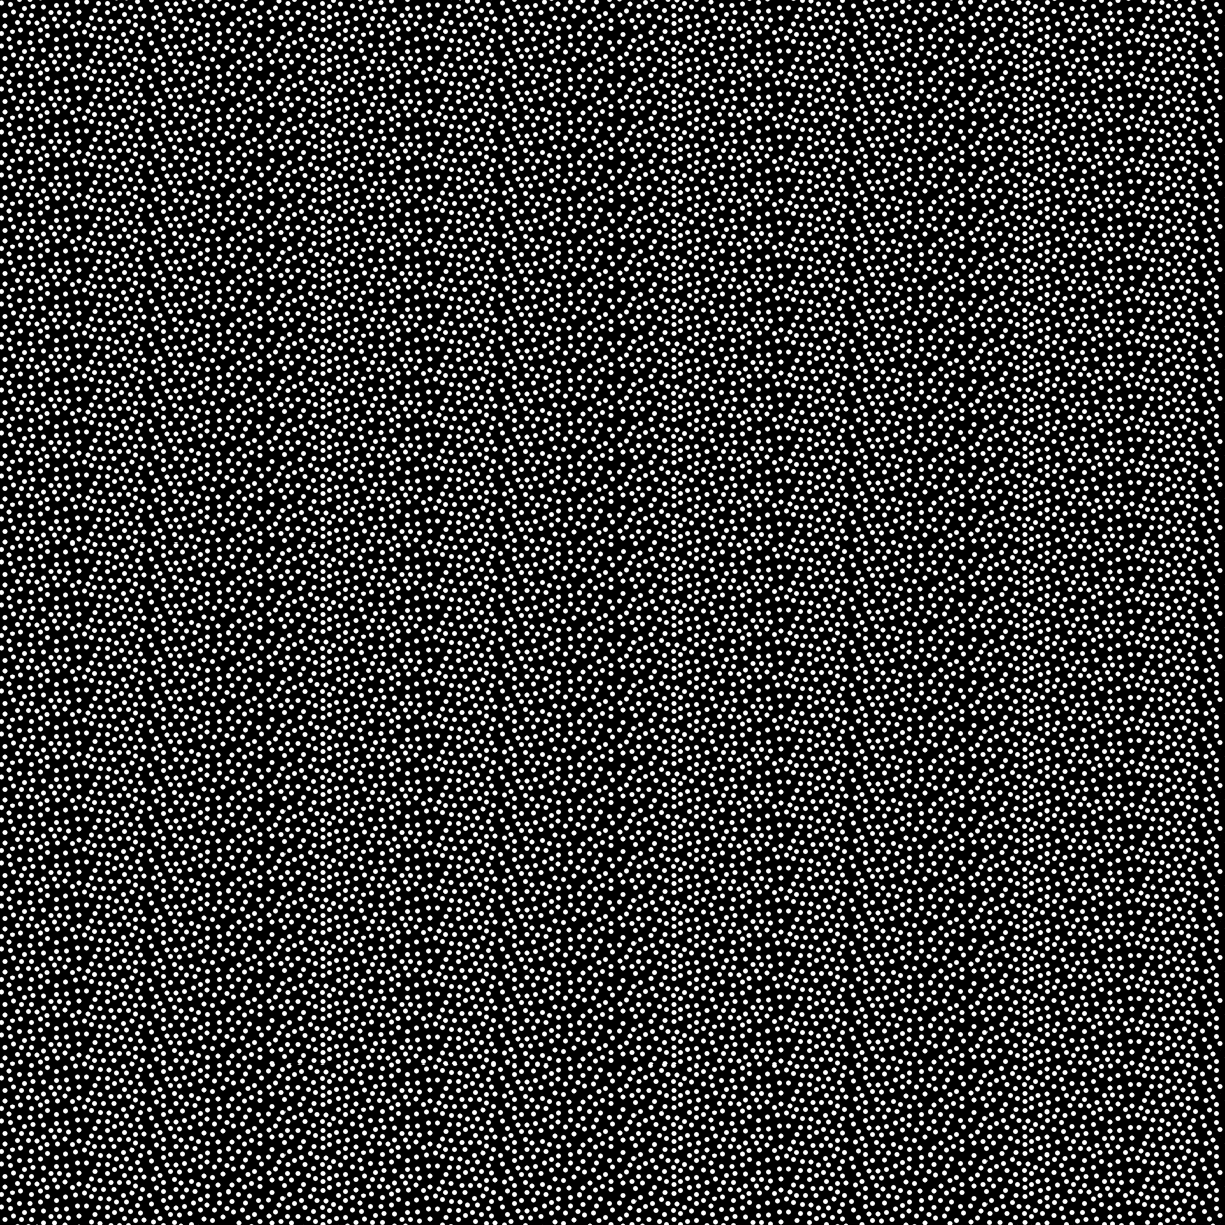
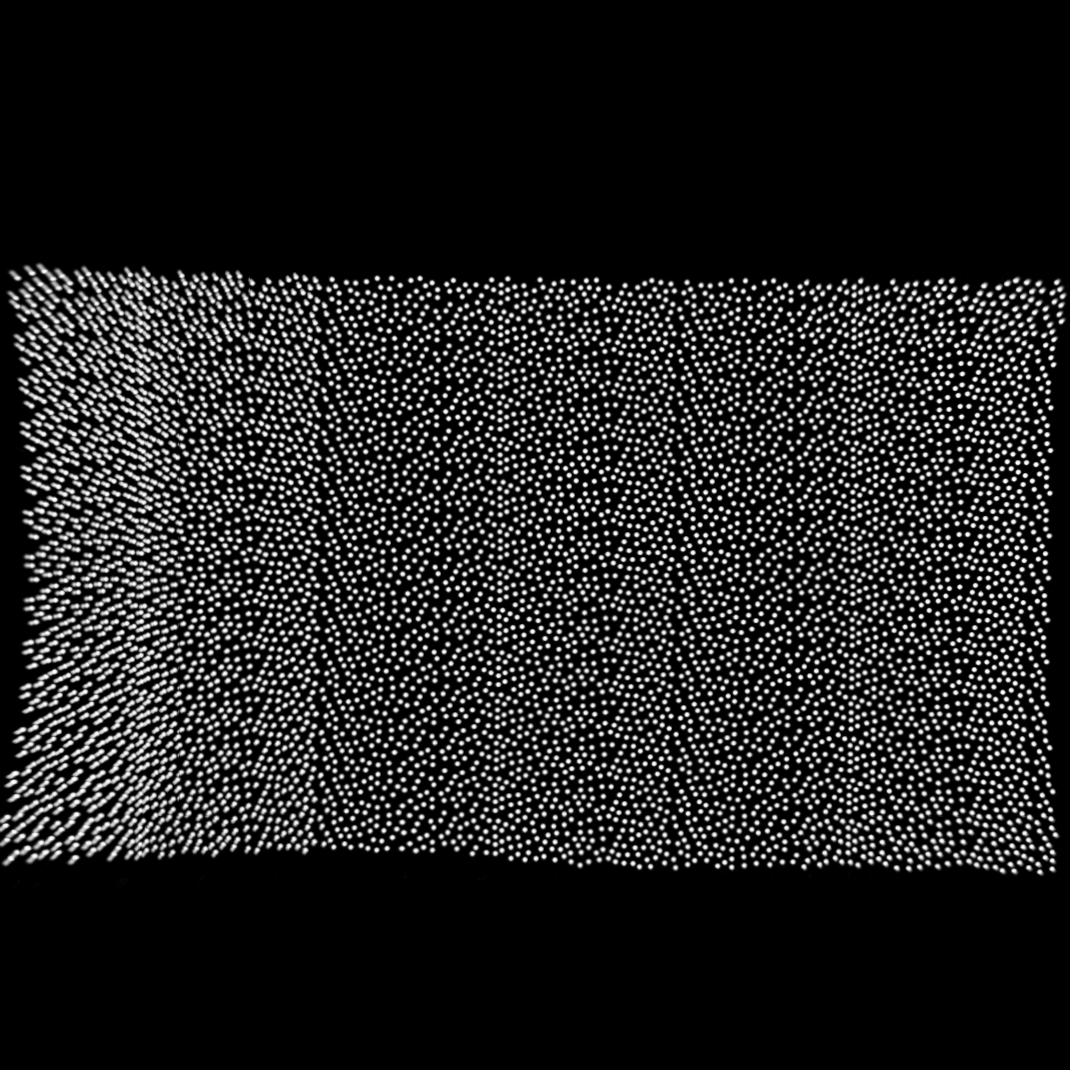
update rendering with new camera pattern and settings

diff --git a/data_rendering/render_scene.py b/data_rendering/render_scene.py
@@ -115,7 +115,7 @@ def render_scene(
 
         # change light
         def lights_on():
-            ambient_light = np.random.rand(3)
+            ambient_light = np.random.rand(2)
             scene.set_ambient_light(ambient_light)
             scene.set_environment_map(get_random_env_file())
 
@@ -260,7 +260,19 @@ def render_scene(
             angle = np.random.uniform(-5, 5)
         else:
             raise NotImplementedError()
-        tex_tmp = rotate_image(tex, angle)
+        from wand.image import Image as WandImage
+        tex_tmp = WandImage.from_array(tex)
+        tex_tmp.virtual_pixel = 'black'
+        blur_radius = np.random.uniform(0.05, 2.5)
+        tex_tmp.blur(radius=blur_radius, sigma=blur_radius / 3)
+        
+        distort_sq, distort_l = np.random.uniform(-0.002, 0.0), np.random.uniform(-0.08, 0.0)
+        distort_c = np.random.uniform(1.0 + np.abs(distort_l) / 2, 1.0 + 1.15 * np.abs(distort_l))
+        tex_tmp.distort('barrel', (0.0, distort_sq, distort_l, distort_c))
+        
+        tex_tmp = np.array(tex_tmp)
+        cv2.imwrite("/tmp.png", tex_tmp)
+        tex_tmp = rotate_image(tex_tmp, angle)
         cv2.imwrite(os.path.join(materials_root, f"{camera_type}-pattern-sq-tmp-{tmp_idx:08d}.png"), tex_tmp)
 
         alight = scene.add_active_light(
@@ -370,14 +382,21 @@ def render_scene(
 
         else:
             # Obtain random camera extrinsic
-            sample_camera_near_primitive = np.random.random() < 0.5 # if True, randomly sample a camera pose near a primitive object
+            sample_camera_near_primitive = np.random.random() < 0.8 # if True, randomly sample a camera pose near a primitive object
+            sample_dist_primitive_rand = np.random.random()
             while True:
                 if primitives or primitives_v2:
                     if sample_camera_near_primitive:
                         chosen_primitive_info_key_idx = np.random.randint(len(primitive_info_keys))
                         chosen_primitive = primitive_info[primitive_info_keys[chosen_primitive_info_key_idx]]
+                        if sample_dist_primitive_rand < 0.18:
+                            min_radius, max_radius = 0.005, 0.03
+                        elif sample_dist_primitive_rand < 0.38:
+                            min_radius, max_radius = 0.015, 0.18
+                        else:
+                            min_radius, max_radius = 0.18, 0.90
                         cam_extrinsic = sample_camera_pose_near_primitive(
-                            primitive_obj=chosen_primitive, center=obj_center, min_radius=0.015, max_radius=0.18
+                            primitive_obj=chosen_primitive, center=obj_center, min_radius=min_radius, max_radius=max_radius
                         )
                         # print("*****************cam pose near primitive", cam_extrinsic)
                     else:

diff --git a/data_rendering/utils/render_utils.py b/data_rendering/utils/render_utils.py
@@ -542,6 +542,9 @@ def check_camera_collision_with_primitive_dict(pos_arr, primitive_info, eps=0.01
     if not isinstance(pos_arr, list):
         pos_arr = [pos_arr]
     for pos in pos_arr:
+        if pos[2] < 0.08:
+            # avoid too low camera poses that cause penetration with table
+            return True
         cam_pose = np.eye(4)
         cam_pose[:3, 3] = pos
         for k, v in primitive_info.items():
